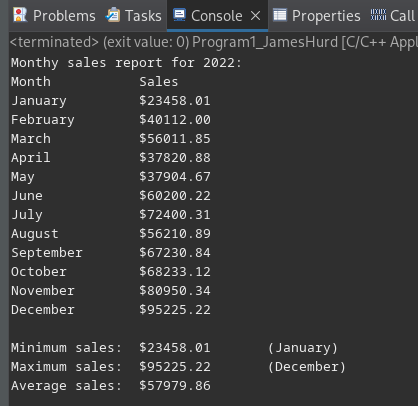
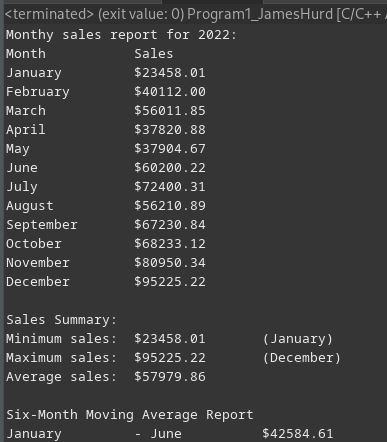
fixed bugs

Changed region(s): [[0.0, 0.0, 1.0, 1.0], [0.6822, 0.9458, 0.8682, 1.0]]

diff --git a/Cprogram1/Program1_JamesHurd/Program1.c b/Cprogram1/Program1_JamesHurd/Program1.c
@@ -65,7 +65,7 @@ printf("%-10s\t$%.2f\t(%s)\n", "Maximum sales:", max, *(months + month));
 
 } //1}}}
 
-float print_avg(const float *data) { //{{{1
+void print_avg(const float *data) { //{{{1
 
 float sum = 0;
 
@@ -77,6 +77,7 @@ printf("%-10s\t$%.2f\n", "Average sales:", sum/12);
 
 void print_summary(const float *data) { //{{{1
 
+printf("Sales Summary:\n");
 print_min(data);
 print_max(data);
 print_avg(data);
@@ -96,7 +97,7 @@ for (int i=0; i<=6; ++i) {
 } //1}}}
 
 void print_sorted_sales(const float *data) { //{{{1
-printf("Sales Report (Highest to Lowest):\n%-10s\tSales\n","Month");
+printf("Sales Report (Highest to Lowest):\n%-10s\t  Sales\n","  Month");
 
 //indices of both arrays.
 int indices[12] = {0,1,2,3,4,5,6,7,8,9,10,11};
